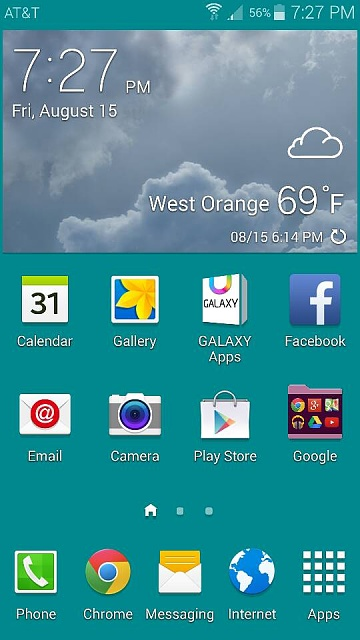
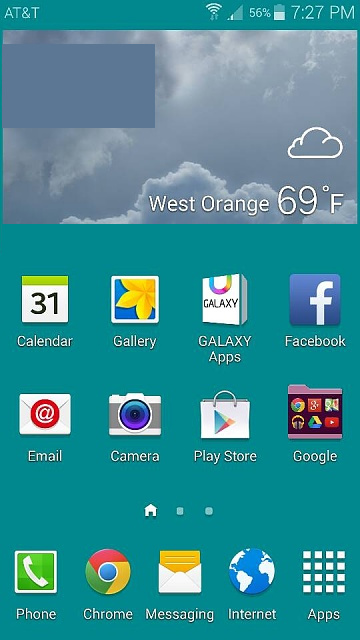
Implementado relógio.

diff --git a/static/js/phone.js b/static/js/phone.js
@@ -1,12 +1,14 @@
-// height/width of screen (this does not include the buttons)
-var ratio = 1184/774;
-
 // frame (image)
 // the image is 1400x2000 and its screen is 1188x774
 // the top left corner of the phone on the image is the point (358, 314)
-var frameImageWidth =  {'phone' :  774, 'total': 1400}
-var frameImageHeight = {'phone' : 1188, 'total': 2000}
-var screenOnImage = {'top': 358, 'left': 314}
+var frameImageWidth =  1400;
+var frameImageHeight = 2000;
+var screenOnImage = {'top': 358, 'left': 314, 'width': 774, 'height': 1188}
+var backButtonOnImage = {'top': 1548, 'left': 312, 'width': 260, 'height': 100}
+var homeButtonOnImage = {'top': 1548, 'left': 596, 'width': 220, 'height': 100}
+
+// height/width of screen (this does not include the buttons)
+var ratio = screenOnImage.height / screenOnImage.width;
 
 var ctx;
 var browserWidth, browserHeight;
@@ -26,33 +28,78 @@ function init() {
   // frame (image)
   frameHeight = browserHeight;
   frameWidth = Math.floor(1/ratio * frameHeight);
+  $('#phone-frame').width(frameWidth).height(frameHeight);
   
   // screen (canvas)
-  screenWidth  = frameImageWidth.phone  / frameImageWidth.total  * frameWidth;
+  screenWidth  = screenOnImage.width / frameImageWidth  * frameWidth;
   screenWidth = Math.ceil(screenWidth);
-  screenHeight = frameImageHeight.phone / frameImageHeight.total * frameHeight;
+  screenHeight = screenOnImage.height / frameImageHeight * frameHeight;
   screenHeight = Math.ceil(screenHeight);
   
-  $('#screen').width(screenWidth).height(screenHeight);
-  $('#phone-frame').width(frameWidth).height(frameHeight);
   $('#screen')[0].setAttribute('width', screenWidth);
   $('#screen')[0].setAttribute('height', screenHeight);
   var left, top;
-  left = Math.floor(screenOnImage.left / frameImageWidth.total * frameWidth);
-  top = Math.floor(screenOnImage.top / frameImageHeight.total * frameHeight);
+  left = Math.floor(screenOnImage.left / frameImageWidth * frameWidth);
+  top = Math.floor(screenOnImage.top / frameImageHeight * frameHeight);
   $('#screen').css('left', left).css('top', top);
+  
+  // back button (canvas)
+  var w = Math.ceil(backButtonOnImage.width  / frameImageWidth  * frameWidth);
+  var h = Math.ceil(backButtonOnImage.height / frameImageHeight * frameHeight);
+  left = Math.floor(backButtonOnImage.left / frameImageWidth * frameWidth);
+  top = Math.floor(backButtonOnImage.top / frameImageHeight * frameHeight);
+  $('#back-button').css('left', left).css('top', top);
+  $('#back-button')[0].setAttribute('width', w);
+  $('#back-button')[0].setAttribute('height', h);
+  
+  // home button (canvas)
+  w = Math.ceil(homeButtonOnImage.width  / frameImageWidth  * frameWidth);
+  h = Math.ceil(homeButtonOnImage.height / frameImageHeight * frameHeight);
+  left = Math.floor(homeButtonOnImage.left / frameImageWidth * frameWidth);
+  top = Math.floor(homeButtonOnImage.top / frameImageHeight * frameHeight);
+  $('#home-button').css('left', left).css('top', top);
+  $('#home-button')[0].setAttribute('width', w);
+  $('#home-button')[0].setAttribute('height', h);
 
   // load screen image
   image = new Image();
   image.src = '/static/img/screenshot-1.jpg';
   image.onload = function() { clear(); }
   
+  // add event listeners
+  $('#back-button')[0].addEventListener('mousedown', backButtonClicked);
+  $('#home-button')[0].addEventListener('mousedown', homeButtonClicked);
 
 }
 
 function clear() {
   // background
   ctx.drawImage(image, 0, 0, screenWidth, screenHeight);
+  // clock
+  updateClock();
+}
+
+function updateClock() {
+  var d = new Date();
+  var hours = d.getHours();
+  var minutes = d.getMinutes();
+  if (hours < 10)
+    hours = '0' + hours;
+  if (minutes < 10)
+    minutes = '0' + minutes;
+  var timeString = hours + ':' + minutes; 
+  // draw on status bar
+  var top = 0;
+  var left = 0.8 * screenWidth;
+  var width = screenWidth - left;
+  var height = 0.045 * screenHeight;
+  drawClock(left, top, width, height, '#02868B', '#FFFFFF', timeString);
+  // draw on home screen
+  top = 0.07 * screenHeight;
+  left = 0;
+  width = 0.43 * screenWidth;
+  height = 0.13 * screenHeight;
+  drawClock(left, top, width, height, '#5C7794', '#FFFFFF', timeString);
 }
 
 function chess(red, green, blue, alpha, rows) {

diff --git a/templates/phone.html b/templates/phone.html
@@ -17,6 +17,8 @@
     </script>
     <script src="/static/js/phone-io.js">
     </script>
+    <script src="/static/js/phone-ui.js">
+    </script>
     <script src="/static/js/audio.js">
     </script>
     
@@ -25,7 +27,16 @@
   <body>
     
     <div id="container" style="position: relative; float: left;">
+      
       <canvas id="screen" width="1" height="1">
+        Your browser does not support HTML5 canvas.
+      </canvas>
+      
+      <canvas id="back-button" width="1" height="1">
+        Your browser does not support HTML5 canvas.
+      </canvas>
+      
+      <canvas id="home-button" width="1" height="1">
         Your browser does not support HTML5 canvas.
       </canvas>
       
@@ -101,7 +112,7 @@
       
     </div>
     
-    <div id="status-txt">teste</div>
+    <div id="status-txt"></div>
   </body>
   
 </html>

diff --git a/static/js/phone-io.js b/static/js/phone-io.js
@@ -3,16 +3,13 @@ var status = 't';
 
 function received_data(data) {
   
-  if (status === data)
-    return; // nothing to do
-  
-  // sound
-  if (status != 't') {
-    console.log(status);
-    mute(status);
+  if (status != data) {
+    // sound
+    if (status != 't')
+      mute(status);
+    if (data != 't')
+      unmute(data);
   }
-  if (data != 't')
-    unmute(data);
   
   // screen
   clear();
@@ -41,6 +38,8 @@ function received_data(data) {
 
 function failed() {
   clear();
+  if (status != 't')
+    mute(status);
   status = 't';
   $('#status-txt').html('<span style="color:red">ERROR</span>');
 }

diff --git a/static/js/phone-ui.js b/static/js/phone-ui.js
@@ -1,0 +1,17 @@
+function backButtonClicked() {
+  console.log('BACK!');
+}
+
+function homeButtonClicked() {
+  console.log('HOME!');
+}
+
+function drawClock(left, top, width, height, bgColour, fgColour, timeString) {
+  ctx.fillStyle = bgColour;
+  ctx.fillRect(left, top, width, height);
+  ctx.fillStyle = fgColour;;
+  ctx.font = Math.floor(0.5 * height) + 'pt sans';
+  ctx.textAlign = 'center';
+  ctx.textBaseline = 'middle';
+  ctx.fillText(timeString, left + width/2, top + height/2);
+}

diff --git a/static/css/phone.css b/static/css/phone.css
@@ -1,16 +1,28 @@
+#screen, #back-button, #home-button {
+    z-index: 2;
+}
+
+#clock {
+    z-index: 3;
+}
+
 #screen {
     border: 0px;
-    z-index: 2;
 }
 
 #phone-frame {
     z-index: 1;
-}
-  
-#screen, #phone-frame {
     position: absolute;
 }
-  
+
+canvas {
+    position: absolute;
+}
+
+#clock {
+    border: 1px solid red;
+}
+
 #container {
     position: relative;
 }

diff --git a/static/js/phone-demo.js b/static/js/phone-demo.js
@@ -21,6 +21,5 @@ function demoLines() {
   var angle = $('#line-angle').val();
   var number = $('#line-number').val();
   var lineWidth = $('#line-width').val();
-  console.log(rgb[0], rgb[1], rgb[2], alpha, angle, number, lineWidth);
   lines(rgb[0], rgb[1], rgb[2], alpha, angle, number, lineWidth);
 }
